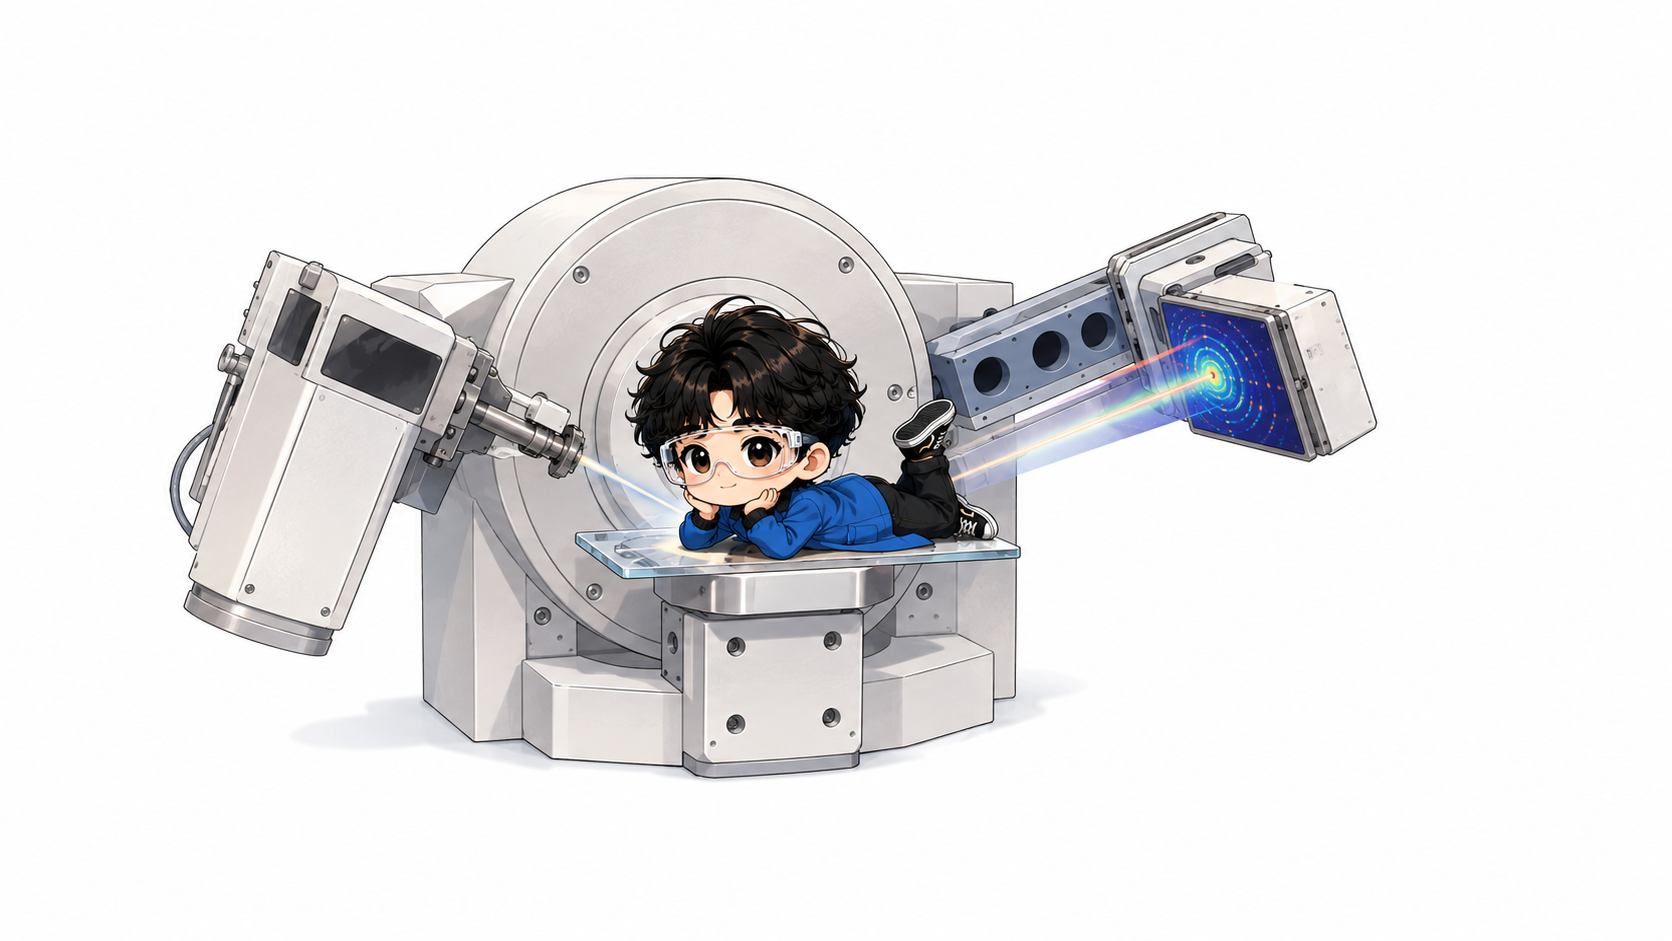
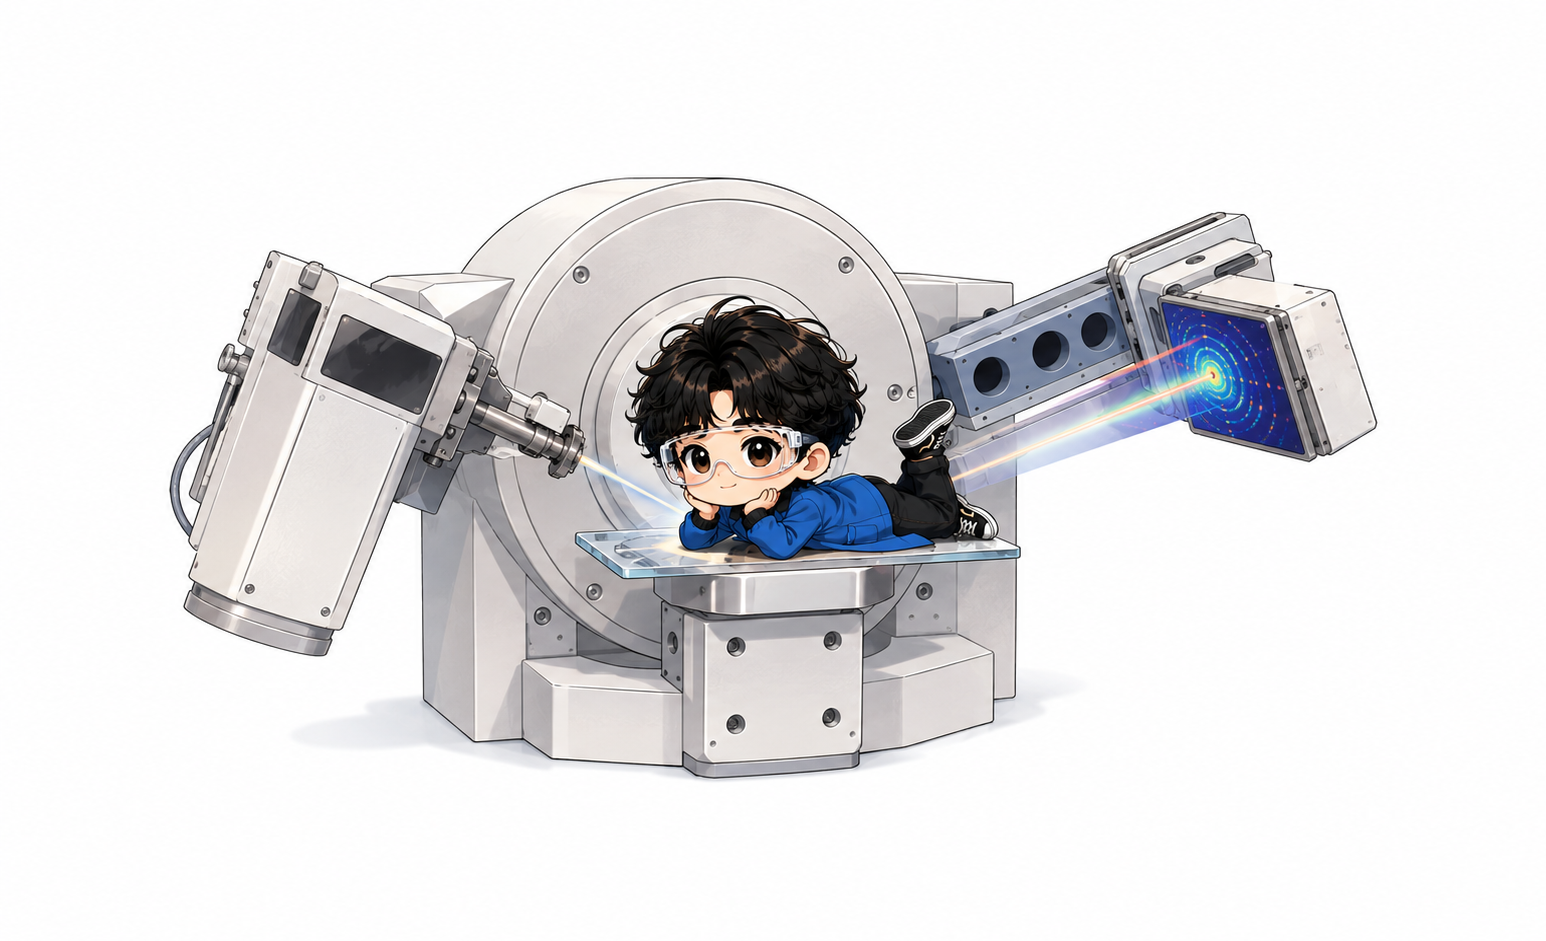
fix: center splash image, cycle funny lowercase loading quips

Changed region(s): [[0.0931, 0.1849, 0.9004, 0.8321]]

diff --git a/spectra_app.py b/spectra_app.py
@@ -3110,9 +3110,29 @@ def create_loading_screen() -> QSplashScreen:
     subtitle.setObjectName('loadingSubtitle')
     subtitle.setAlignment(Qt.AlignmentFlag.AlignCenter)
 
-    status = QLabel('Preparing plotting workspace...')
+    status = QLabel('preparing plotting workspace...')
     status.setObjectName('loadingStatus')
     status.setAlignment(Qt.AlignmentFlag.AlignCenter)
+
+    # cycle through a few (lowercase) loading quips while the splash is up
+    _quips = [
+        'preparing plotting workspace...',
+        'calibrating the diffractometer...',
+        "summoning bragg's law...",
+        'aligning the x-rays (do not look directly)...',
+        'fitting gaussians nobody asked for...',
+        'bribing matplotlib to cooperate...',
+    ]
+    _qi = {'i': 0}
+
+    def _next_quip():
+        _qi['i'] = (_qi['i'] + 1) % len(_quips)
+        status.setText(_quips[_qi['i']])
+
+    _quip_timer = QTimer(splash)
+    _quip_timer.timeout.connect(_next_quip)
+    _quip_timer.start(1700)
+    splash._quip_timer = _quip_timer   # keep a reference so it isn't GC'd
 
     progress = QProgressBar()
     progress.setObjectName('loadingProgress')
@@ -3625,6 +3645,8 @@ def main():
     _remaining = max(0, 10000 - _elapsed_ms)
 
     def _reveal():
+        if hasattr(splash, '_quip_timer'):
+            splash._quip_timer.stop()
         win.showMaximized()
         splash.finish(win)
 
